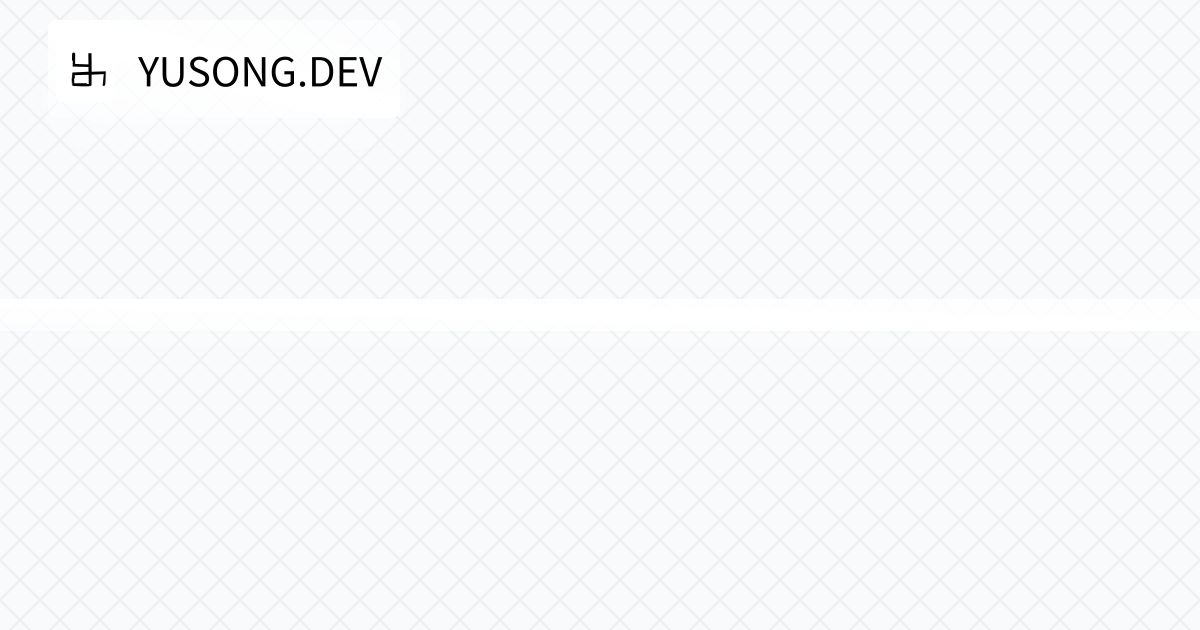
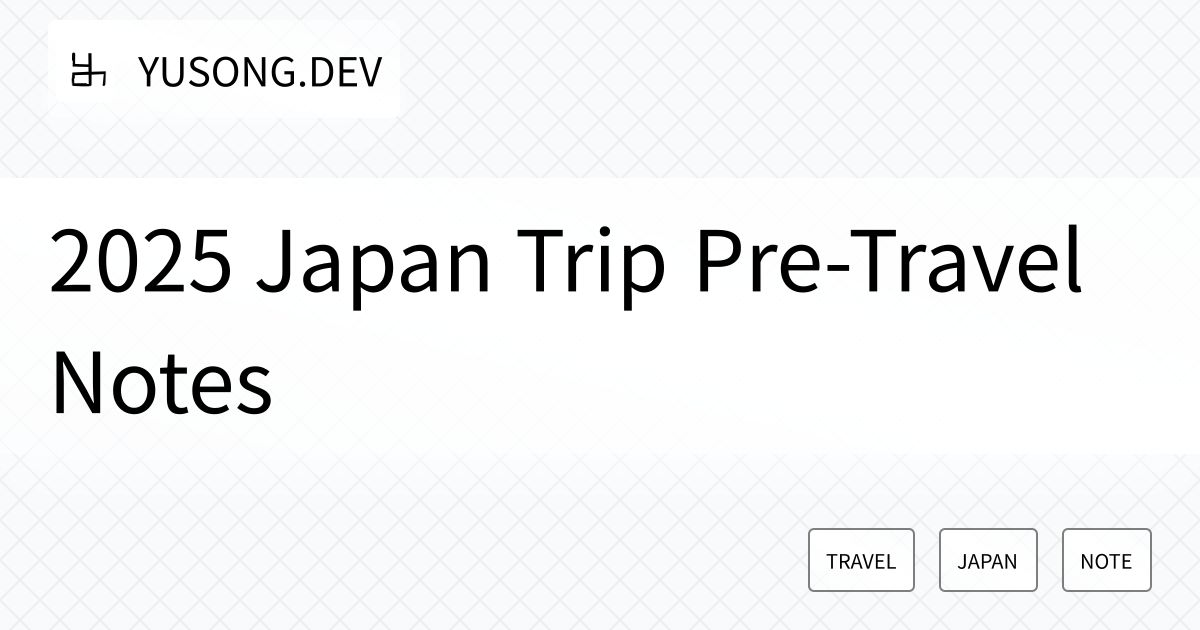
fix: frontmatter format incorrect (#644)

diff --git a/src/pages/en/article/jp2025/note/index.md b/src/pages/en/article/jp2025/note/index.md
@@ -1,10 +1,14 @@
-Title: 2025 Japan Trip Pre-Travel Notes
-Description: Notes on locations and itinerary for the 2025 trip to Osaka, Japan
-Created At: October 11, 2025
-Modified At: October 24, 2025
-Tags: Travel, Japan, Notes
-Index: 0
-Main Image: og
+---
+title: 2025 Japan Trip Pre-Travel Notes
+description: Notes on locations and itinerary for the 2025 trip to Osaka, Japan
+createdAt: October 11, 2025
+modifiedAt: "2025-10-24T08:25:38.259Z"
+tags:
+  - TRAVEL
+  - JAPAN
+  - NOTE
+index: 0
+---
 
 ### [Main Locations](#main-map)
 
